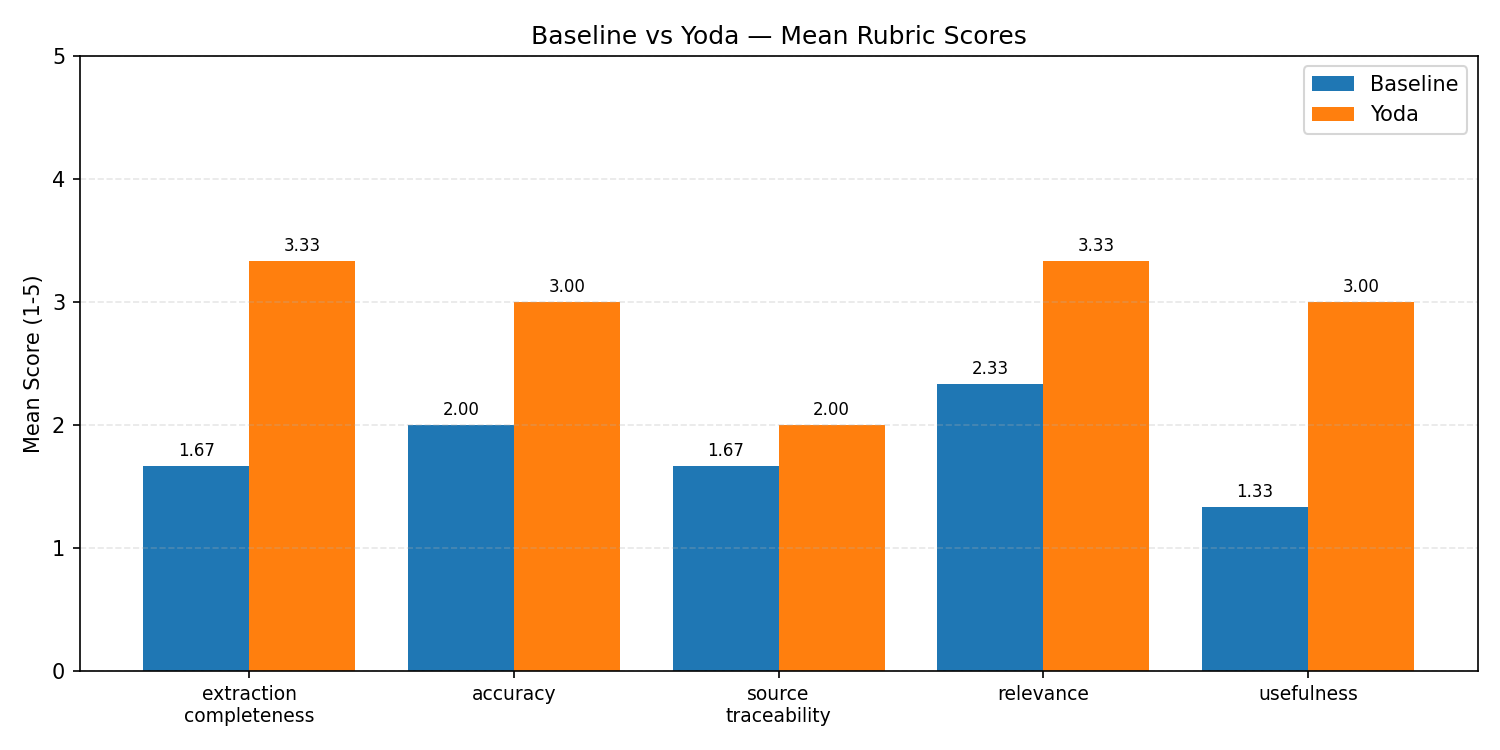
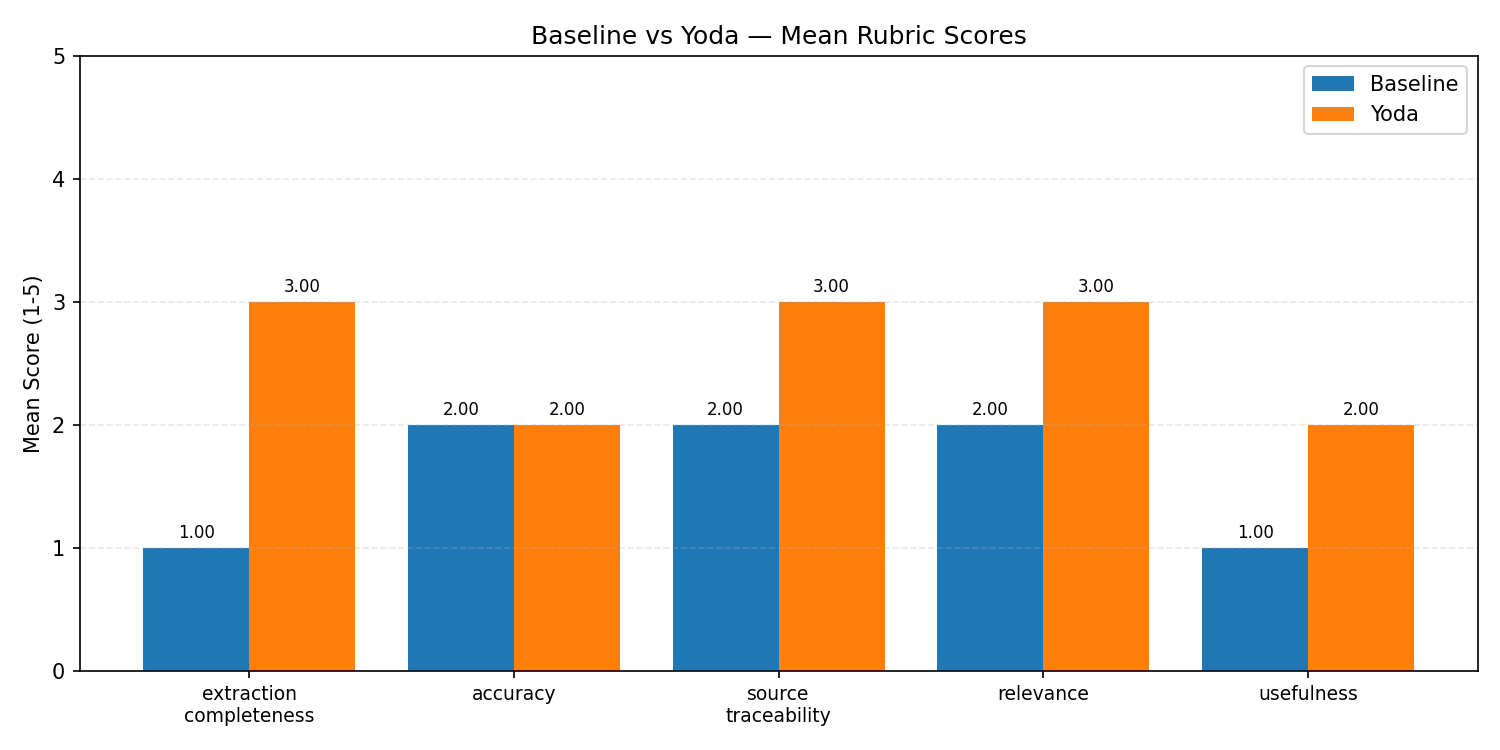
Integrate chart into eval + curated 50-ticker universe
Three changes to the evaluation infrastructure:

1. Chart as explicit eval output: Move _write_chart() from _write_summary()
   to be called directly from run_eval(). This makes the three outputs
   (results.csv, summary.md, comparison.png) structurally equivalent peers.

2. Fixed curated ticker universe: Add CURATED_TICKERS module constant with
   50 major US-listed stocks (all public >3 years, market cap >$10B). Replace
   CLI default from NFLX-only to CURATED_TICKERS. This standardizes
   evaluation scope and enables meaningful comparisons across runs.

3. README updates: Add 'Evaluation Scope' section under Section 3 documenting
   the 50-ticker universe, its rationale, and cost/latency expectations.
   Include CLI examples for custom ticker overrides.

Cost/latency: Full 50-ticker run ~$15–20, 2–3 hours. Single ticker ~$0.30,
3–5 min (for quick verification).

diff --git a/yoda/eval/runner.py b/yoda/eval/runner.py
@@ -14,8 +14,9 @@ All three modes already print these consistently, so we capture stdout rather
 than refactoring the mode APIs.
 
 CLI: python -m yoda.eval.runner [TICKER [TICKER ...]]
-Default ticker: NFLX (cheap verification run, ~$0.30, 3-5 min).
-Full set: AAPL AMZN JPM PANW NFLX COIN
+Default tickers: CURATED_TICKERS (50 major US-listed stocks, ~$15/run, 2-3 hours).
+Quick test: python -m yoda.eval.runner NFLX (~$0.30, 3-5 min).
+Custom override: python -m yoda.eval.runner AAPL AMZN JPM PANW NFLX COIN
 """
 
 import contextlib
@@ -32,6 +33,17 @@ from yoda.ingest.edgar import fetch_latest_filing
 from yoda.modes.baseline import run_baseline
 from yoda.modes.personality_panel import run_personality_panel
 from yoda.schema import EarningsReport
+
+
+# Curated universe of 50 major US-listed stocks (public >3 years).
+# Used as default evaluation scope for standardized comparisons.
+CURATED_TICKERS = [
+    "AAPL", "MSFT", "GOOGL", "AMZN", "NVDA", "META", "TSLA", "BRK.B", "JNJ", "V",
+    "WMT", "JPM", "PG", "MA", "DIS", "BA", "ADBE", "CRM", "NKE", "MCD",
+    "KO", "PEP", "ABT", "ABBV", "XOM", "MRK", "NVO", "CVX", "ACN", "AMD",
+    "HON", "ETN", "INTU", "CSCO", "CAT", "QCOM", "INTC", "IBM", "AVGO", "NEE",
+    "LMT", "GILD", "TMUS", "MDLZ", "PYPL", "TJX", "COST", "ADP", "NFLX", "PANW",
+]
 
 
 # ---------------------------------------------------------------------------
@@ -200,6 +212,11 @@ def run_eval(
     _write_summary(df, out_dir / "summary.md")
     print(f"Summary saved to {out_dir / 'summary.md'}")
 
+    # Generate comparison chart as a top-level output.
+    chart_path = out_dir / "comparison.png"
+    _write_chart(df, chart_path)
+    print(f"Chart saved to {chart_path}")
+
     return df
 
 
@@ -244,11 +261,6 @@ def _write_summary(df: pd.DataFrame, path) -> None:
 
     import pathlib
     pathlib.Path(path).write_text("\n".join(lines), encoding="utf-8")
-
-    # Emit a side-by-side bar chart for presentation slides.
-    chart_path = pathlib.Path(path).parent / "comparison.png"
-    _write_chart(df, chart_path)
-    print(f"Chart saved to {chart_path}")
 
 
 # ---------------------------------------------------------------------------
@@ -309,8 +321,8 @@ def _write_chart(df: pd.DataFrame, path) -> None:
 if __name__ == "__main__":
     import sys
 
-    # Default to NFLX-only for the verification gate (~$0.30, 3-5 min).
-    # Full run: python -m yoda.eval.runner AAPL AMZN JPM PANW NFLX COIN
-    tickers = sys.argv[1:] if len(sys.argv) > 1 else ["NFLX"]
+    # Default to the curated 50-ticker universe for comprehensive evaluation.
+    # Override with CLI args: python -m yoda.eval.runner NFLX AAPL (for quick tests)
+    tickers = sys.argv[1:] if len(sys.argv) > 1 else CURATED_TICKERS
     df = run_eval(tickers)
     print(df.to_string(index=False))

diff --git a/README.md b/README.md
@@ -120,6 +120,21 @@ app.py (Streamlit — Single ticker + Queue tabs)
 
 ## 3. Evaluation and Results
 
+### Evaluation Scope
+
+By default, `run_eval()` evaluates against a **curated universe of 50 major US-listed stocks**, all public for >3 years. This standardized scope ensures:
+- **Consistency**: Identical ticker set across evaluation runs for meaningful comparison
+- **Quality**: Only established, high-liquidity companies (market cap >$10B)
+- **Coverage**: Diverse sectors (tech, finance, healthcare, energy, etc.)
+
+See [CURATED_TICKERS in runner.py](yoda/eval/runner.py) for the full list. To evaluate a custom set:
+```bash
+python -m yoda.eval.runner NFLX AAPL JPM  # Custom tickers
+python -m yoda.eval.runner NFLX            # Single ticker (quick test, ~$0.30, 3-5 min)
+```
+
+**Cost / Latency**: 50 tickers × 2 modes ≈ $15–20 per full run, 2–3 hours. Single ticker is ~$0.30 and 3–5 min for verification.
+
 ### Baseline
 
 A **prompt-only baseline** (`yoda/modes/baseline.py`) makes a single `gpt-4o` call with a manually sliced ~5000-character excerpt from the filing (MD&A preferred, Financial Statements fallback). No RAG, no agent loop. This represents the "just give the LLM a chunk of the filing" approach and sets the lower bound.

diff --git a/data/eval/summary.md b/data/eval/summary.md
@@ -4,13 +4,5 @@
 
 | mode | extraction_completeness | accuracy | source_traceability | relevance | usefulness | latency_seconds | cost_usd |
 | --- | --- | --- | --- | --- | --- | --- | --- |
-| baseline | 1.67 | 2.0 | 1.67 | 2.33 | 1.33 | 9.64 | 0.0 |
-| panel_deep | 3.33 | 3.0 | 2.0 | 3.33 | 3.0 | 92.98 | 0.09 |
-
-## Mean scores by ticker
-
-| ticker | extraction_completeness | accuracy | source_traceability | relevance | usefulness |
-| --- | --- | --- | --- | --- | --- |
-| COIN | 3.0 | 3.5 | 2.0 | 3.0 | 2.5 |
-| NFLX | 2.0 | 2.0 | 2.0 | 2.5 | 1.5 |
-| PANW | 2.5 | 2.0 | 1.5 | 3.0 | 2.5 |
+| baseline | 1.0 | 2.0 | 2.0 | 2.0 | 1.0 | 12.01 | 0.0 |
+| panel_deep | 3.0 | 2.0 | 3.0 | 3.0 | 2.0 | 80.98 | 0.08 |